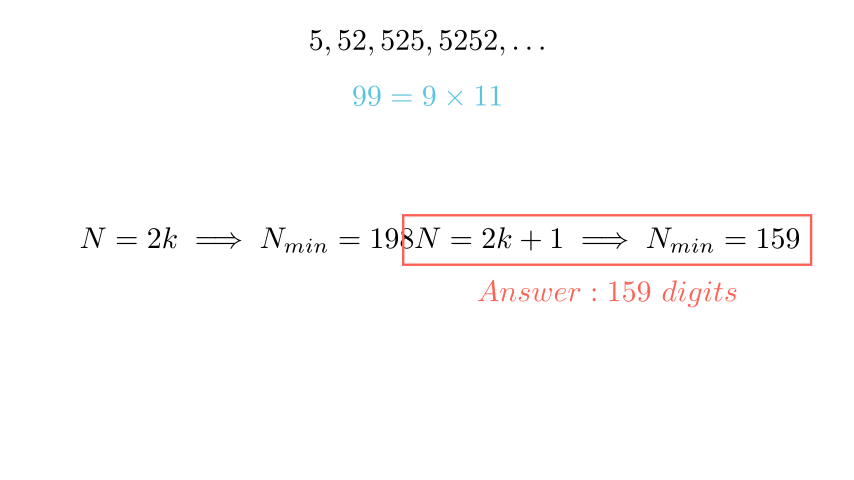
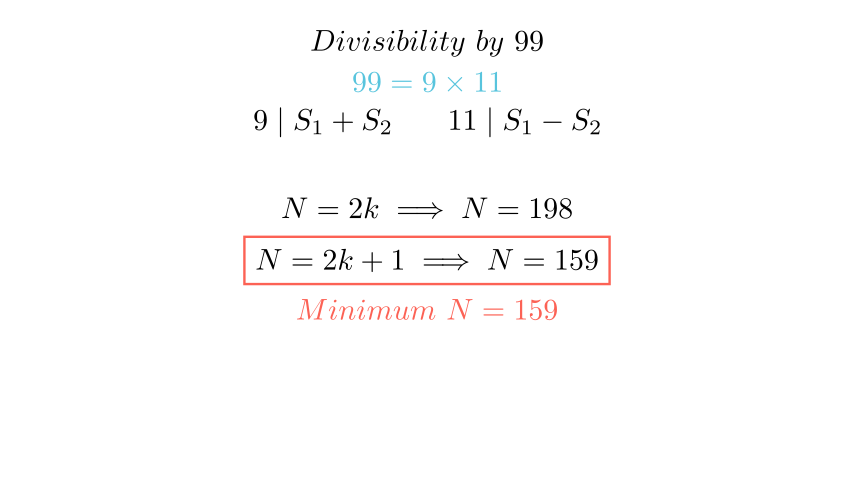
Add new problem and solution for divisibility by 99 with detailed analysis and hints

diff --git a/tools/archive/20260108_203136_new_problem_input.md b/tools/archive/20260108_203136_new_problem_input.md
@@ -1,19 +1,19 @@
 ---
-difficulty: 6
-grade: 12
-primary_skill: критериуми_за_деливост
 problem_id: sigma_137_y4_p1856
-related_skills:
-- кинеска_теорема_за_остатоци
-- својства_на_цифри
-source: Sigma 137
-tags:
-- деливост
-- критериуми_за_деливост
-- модуларна_аритметика
-- низи
 title: Деливост со 99 на броеви со специфична структура
+grade: 12
+difficulty: 6
 type: number_theory
+tags:
+  - деливост
+  - критериуми_за_деливост
+  - модуларна_аритметика
+  - низи
+primary_skill: критериуми_за_деливост
+related_skills:
+  - кинеска_теорема_за_остатоци
+  - својства_на_цифри
+source: Sigma 137
 ---
 
 # Деливост со 99 на броеви со специфична структура
@@ -115,12 +115,6 @@ $$11m + 2 \equiv 7 \pmod 9 \implies 2m \equiv 5 \equiv 14 \pmod 9 \implies m \eq
 
 **Краен одговор:** Најмалиот таков број има $\boxed{159}$ цифри.
 
-
-
----
-### 🎨 Визуелизација
-![Илустрација](/assets/images/sigma_137_y4_p1856/sigma_137_y4_p1856.png)
-
 ## 👨🏫 Менторски Белешки
 1. **Златен Совет:** Секогаш кога делителот е сложен број, разложи го на заемно прости фактори. Ова е стандардна олимписка техника за „кршење“ на проблемот на помали делови.
 2. **Чести Грешки:** Студентите често го занемаруваат случајот со непарен број цифри, претпоставувајќи дека деливоста со 99 бара „парен“ баланс на цифри. Како што видовме, непарниот случај всушност го дава помалото решение.
@@ -129,3 +123,38 @@ $$11m + 2 \equiv 7 \pmod 9 \implies 2m \equiv 5 \equiv 14 \pmod 9 \implies m \eq
 ### 🔗 Поврзани вештини
 * **Примарна вештина:** Критериуми за деливост (Деливост со 9 и 11).
 * **Потребни предзнаења:** Модуларна аритметика и линеарни конгруенции.
+
+# Manim Code
+```python
+from manim import *
+
+class SolutionScene(Scene):
+    def construct(self):
+        self.camera.background_color = WHITE
+        
+        # --- CONFIGURATION ---
+        # Title of the problem logic
+        title = MathTex("Divisibility \\ by \\ 99", color=BLACK).to_edge(UP)
+        
+        # The key breakdown
+        breakdown = MathTex("99 = 9 \\times 11", color=BLUE).next_to(title, DOWN)
+        
+        # Rules summary
+        rules = VGroup(
+            MathTex("9 \\mid S_1 + S_2", color=BLACK),
+            MathTex("11 \\mid S_1 - S_2", color=BLACK)
+        ).arrange(RIGHT, buff=1).next_to(breakdown, DOWN)
+        
+        # Results comparison
+        even_case = MathTex("N = 2k \\implies N = 198", color=BLACK)
+        odd_case = MathTex("N = 2k + 1 \\implies N = 159", color=BLACK)
+        
+        comparison = VGroup(even_case, odd_case).arrange(DOWN, buff=0.5).next_to(rules, DOWN, buff=1)
+        
+        # Highlighting the winner
+        highlight = SurroundingRectangle(odd_case, color=RED, buff=0.2)
+        ans_label = MathTex("Minimum \\ N = 159", color=RED).next_to(highlight, DOWN)
+
+        # Build final frame
+        self.add(title, breakdown, rules, comparison, highlight, ans_label)
+```
